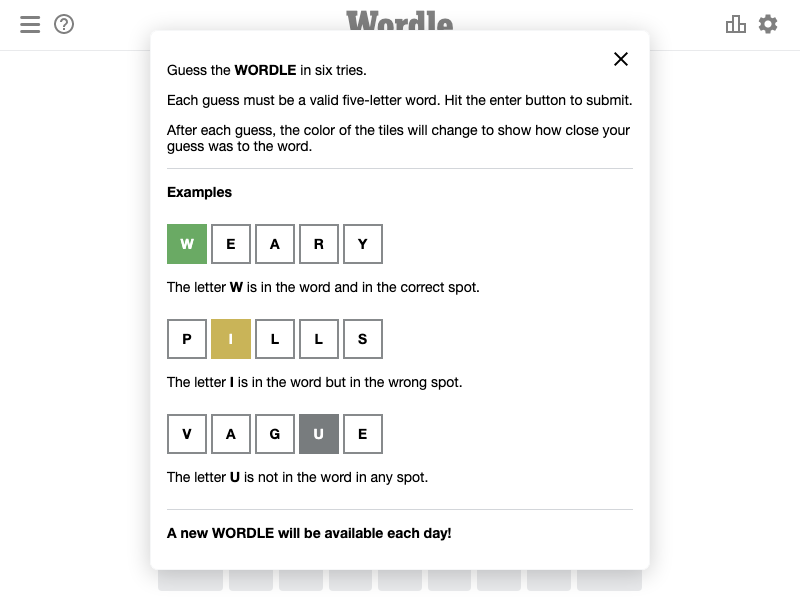
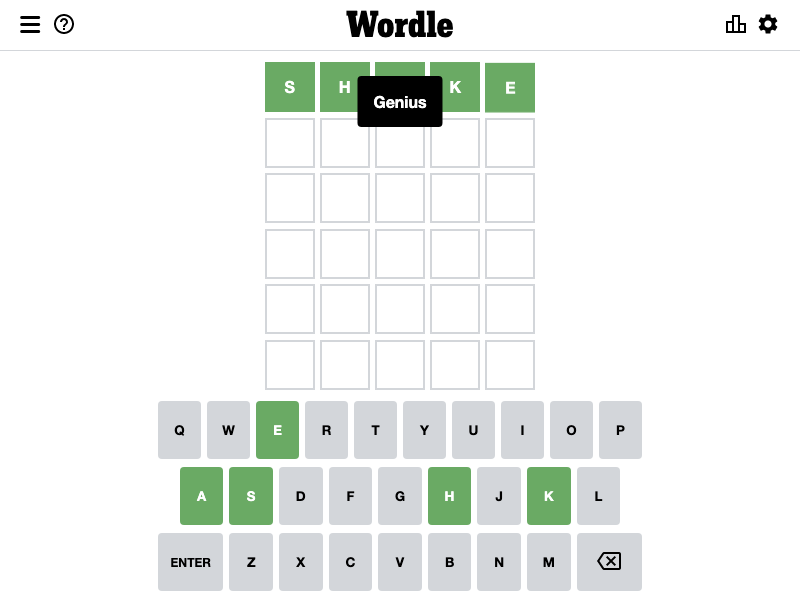
feat: add examples and README

diff --git a/server.ts b/server.ts
@@ -1,0 +1,38 @@
+import { serve } from "https://deno.land/std@0.125.0/http/server.ts"
+import { Status, STATUS_TEXT } from "https://deno.land/std@0.125.0/http/http_status.ts"
+import { solve } from "./wordle.ts"
+
+serve(handler, { port: 3000 })
+
+console.log("Wordle solver is on http://localhost:3000/")
+
+async function handler(req: Request): Promise<Response> {
+    const url = new URL(req.url)
+    const path = url.pathname
+    console.log("Path:", path)
+
+    switch (path) {
+        case "/solve": {
+            const answer = await solve()
+
+            if (answer) {
+                return new Response(JSON.stringify({ answer: answer }), {
+                    status: Status.OK,
+                    headers: new Headers({
+                        "content-type": "application/json",
+                    }),
+                })
+            }
+        }
+    }
+
+    const body = JSON.stringify({ message: STATUS_TEXT.get(Status.NotFound) })
+    const res = new Response(body, {
+        status: 404,
+        headers: {
+            "content-type": "application/json; charset=utf-8",
+        },
+    })
+    console.log(res)
+    return res
+}

diff --git a/examples/screenshot.ts b/examples/screenshot.ts
@@ -2,9 +2,9 @@ Deno.env.set("PUPPETEER_PRODUCT", "chrome")
 import puppeteer from "https://deno.land/x/puppeteer@9.0.2/mod.ts"
 import "https://deno.land/x/puppeteer@9.0.2/install.ts "
 
-export const wordleURL = "https://www.nytimes.com/games/wordle/index.html"
+const wordleURL = "https://www.nytimes.com/games/wordle/index.html"
 
-export const solve = async (): Promise<string> => {
+const solveWithScreenShot = async (): Promise<string> => {
     const browser = await puppeteer.launch()
     const page = await browser.newPage()
     await page.goto(wordleURL)
@@ -20,7 +20,22 @@ export const solve = async (): Promise<string> => {
 
     const answer = state.solution
 
+    // click body to close popup
+    await page.click("body")
+
+    // enter the answer
+    await page.type("body", answer)
+    await page.keyboard.down("Enter")
+
+    // wait a few seconds and take a screenshot
+    await page.waitForTimeout(3000)
+    await page.screenshot({ path: `./wordle-${Date.toString}.png` })
+
     await browser.close()
 
     return answer
 }
+
+// Let's solve!
+const answer = await solveWithScreenShot()
+console.log(`The answer is ${answer}`)

diff --git a/test.ts b/test.ts
@@ -1,0 +1,7 @@
+import { assertEquals } from "https://deno.land/std@0.126.0/testing/asserts.ts"
+import { solve } from "./wordle.ts"
+
+Deno.test("solve wordle", async () => {
+    const answer = await solve()
+    assertEquals(typeof answer, "string")
+})

diff --git a/examples/basic.ts b/examples/basic.ts
@@ -1,0 +1,7 @@
+import { solve } from "../wordle.ts"
+
+console.log("Let's solve Wordle!")
+
+const answer = await solve()
+
+console.log(`The answer is "${answer}"!`)

diff --git a/README.md b/README.md
@@ -1,0 +1,48 @@
+# Wordle Solver with Deno
+
+A wordle solver with Deno.
+
+![](./wordle.png)
+
+# How to use
+Example codes are available in `/examples`!
+## Basic usage
+
+```ts
+// example.ts
+
+import { solve } from "./wordle.ts"
+
+console.log("Let's solve Wordle!")
+
+const answer = await solve()
+
+console.log(`The answer is "${answer}"!`)
+
+```
+
+Run `example.ts` as follows
+```bash
+deno run --allow-net --unstable --allow-env --allow-read --allow-write --allow-run --unstable example.ts
+```
+or
+```bash
+deno run -A --unstable example.ts
+```
+
+The result is
+```
+Let's solve Wordle!
+The answer is "shake"!
+```
+
+# How it works
+Wordle saves the game status in localStorage.
+The value of nyt-wordle-statistics in it is as follows.
+
+```
+{"boardState":["hello","shake","","","",""],"evaluations":[["present","present","absent","absent","absent"],["correct","correct","correct","correct","correct"],null,null,null,null],"rowIndex":2,"solution":"shake","gameStatus":"WIN","lastPlayedTs":1645053407046,"lastCompletedTs":1645053407046,"restoringFromLocalStorage":null,"hardMode":false}
+```
+
+Yes, there is an answer in this.
+This wordle solver gets `solution` parameter from this by using puppeteer.
